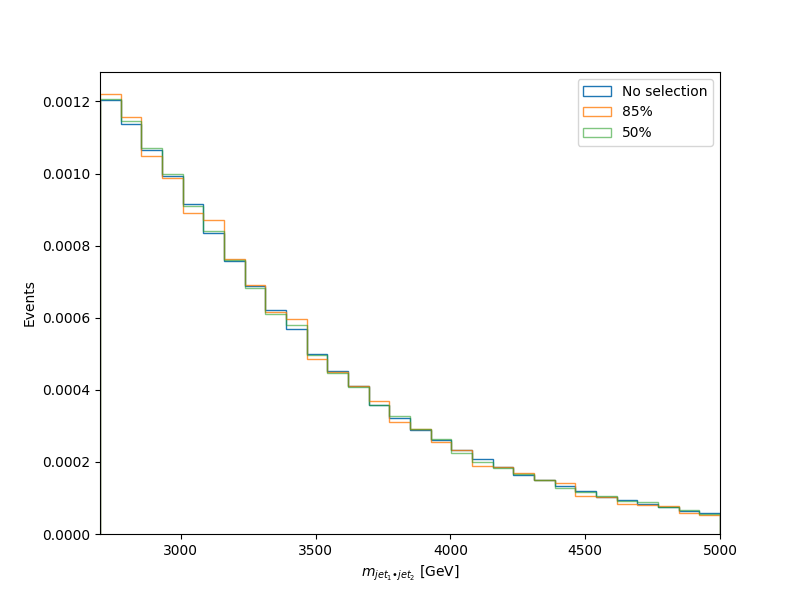
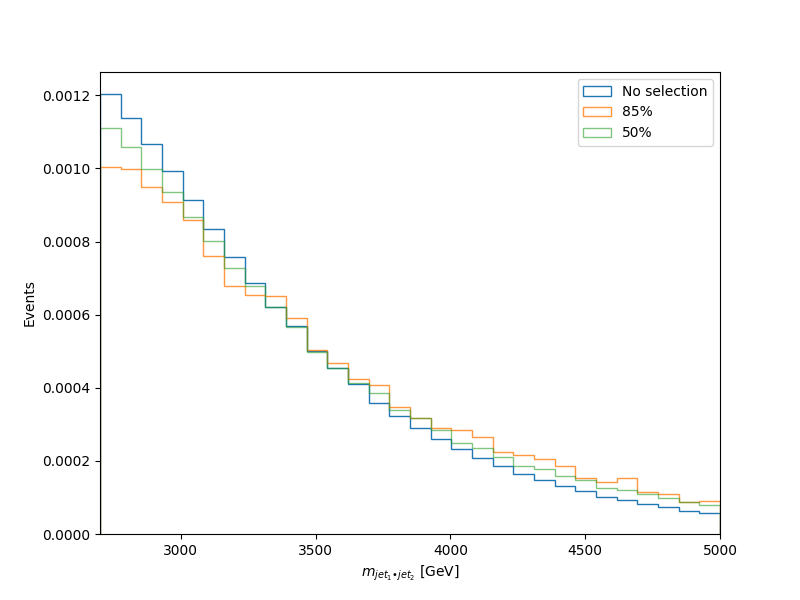
Testing with minmax scaling and 21, 14 layer dimensions

diff --git a/test.py b/test.py
@@ -175,8 +175,8 @@ fig.savefig(f"figs/testing/ROC_{scale}_{mid_dim}_{latent_dim}.png")
 
 ############################################ Normalised Mass Distribution  ##############################################
 
-# bkg_tensor = torch.from_numpy(scaler.transform(bkg[selection])).float().to(device)
-bkg_tensor = torch.from_numpy(bkg_scaled.values).float().to(device)
+bkg_tensor = torch.from_numpy(scaler.transform(bkg[selection])).float().to(device)
+# bkg_tensor = torch.from_numpy(bkg_scaled.values).float().to(device)
 
 # Predictions
 with torch.no_grad(): # no need to compute gradients here
